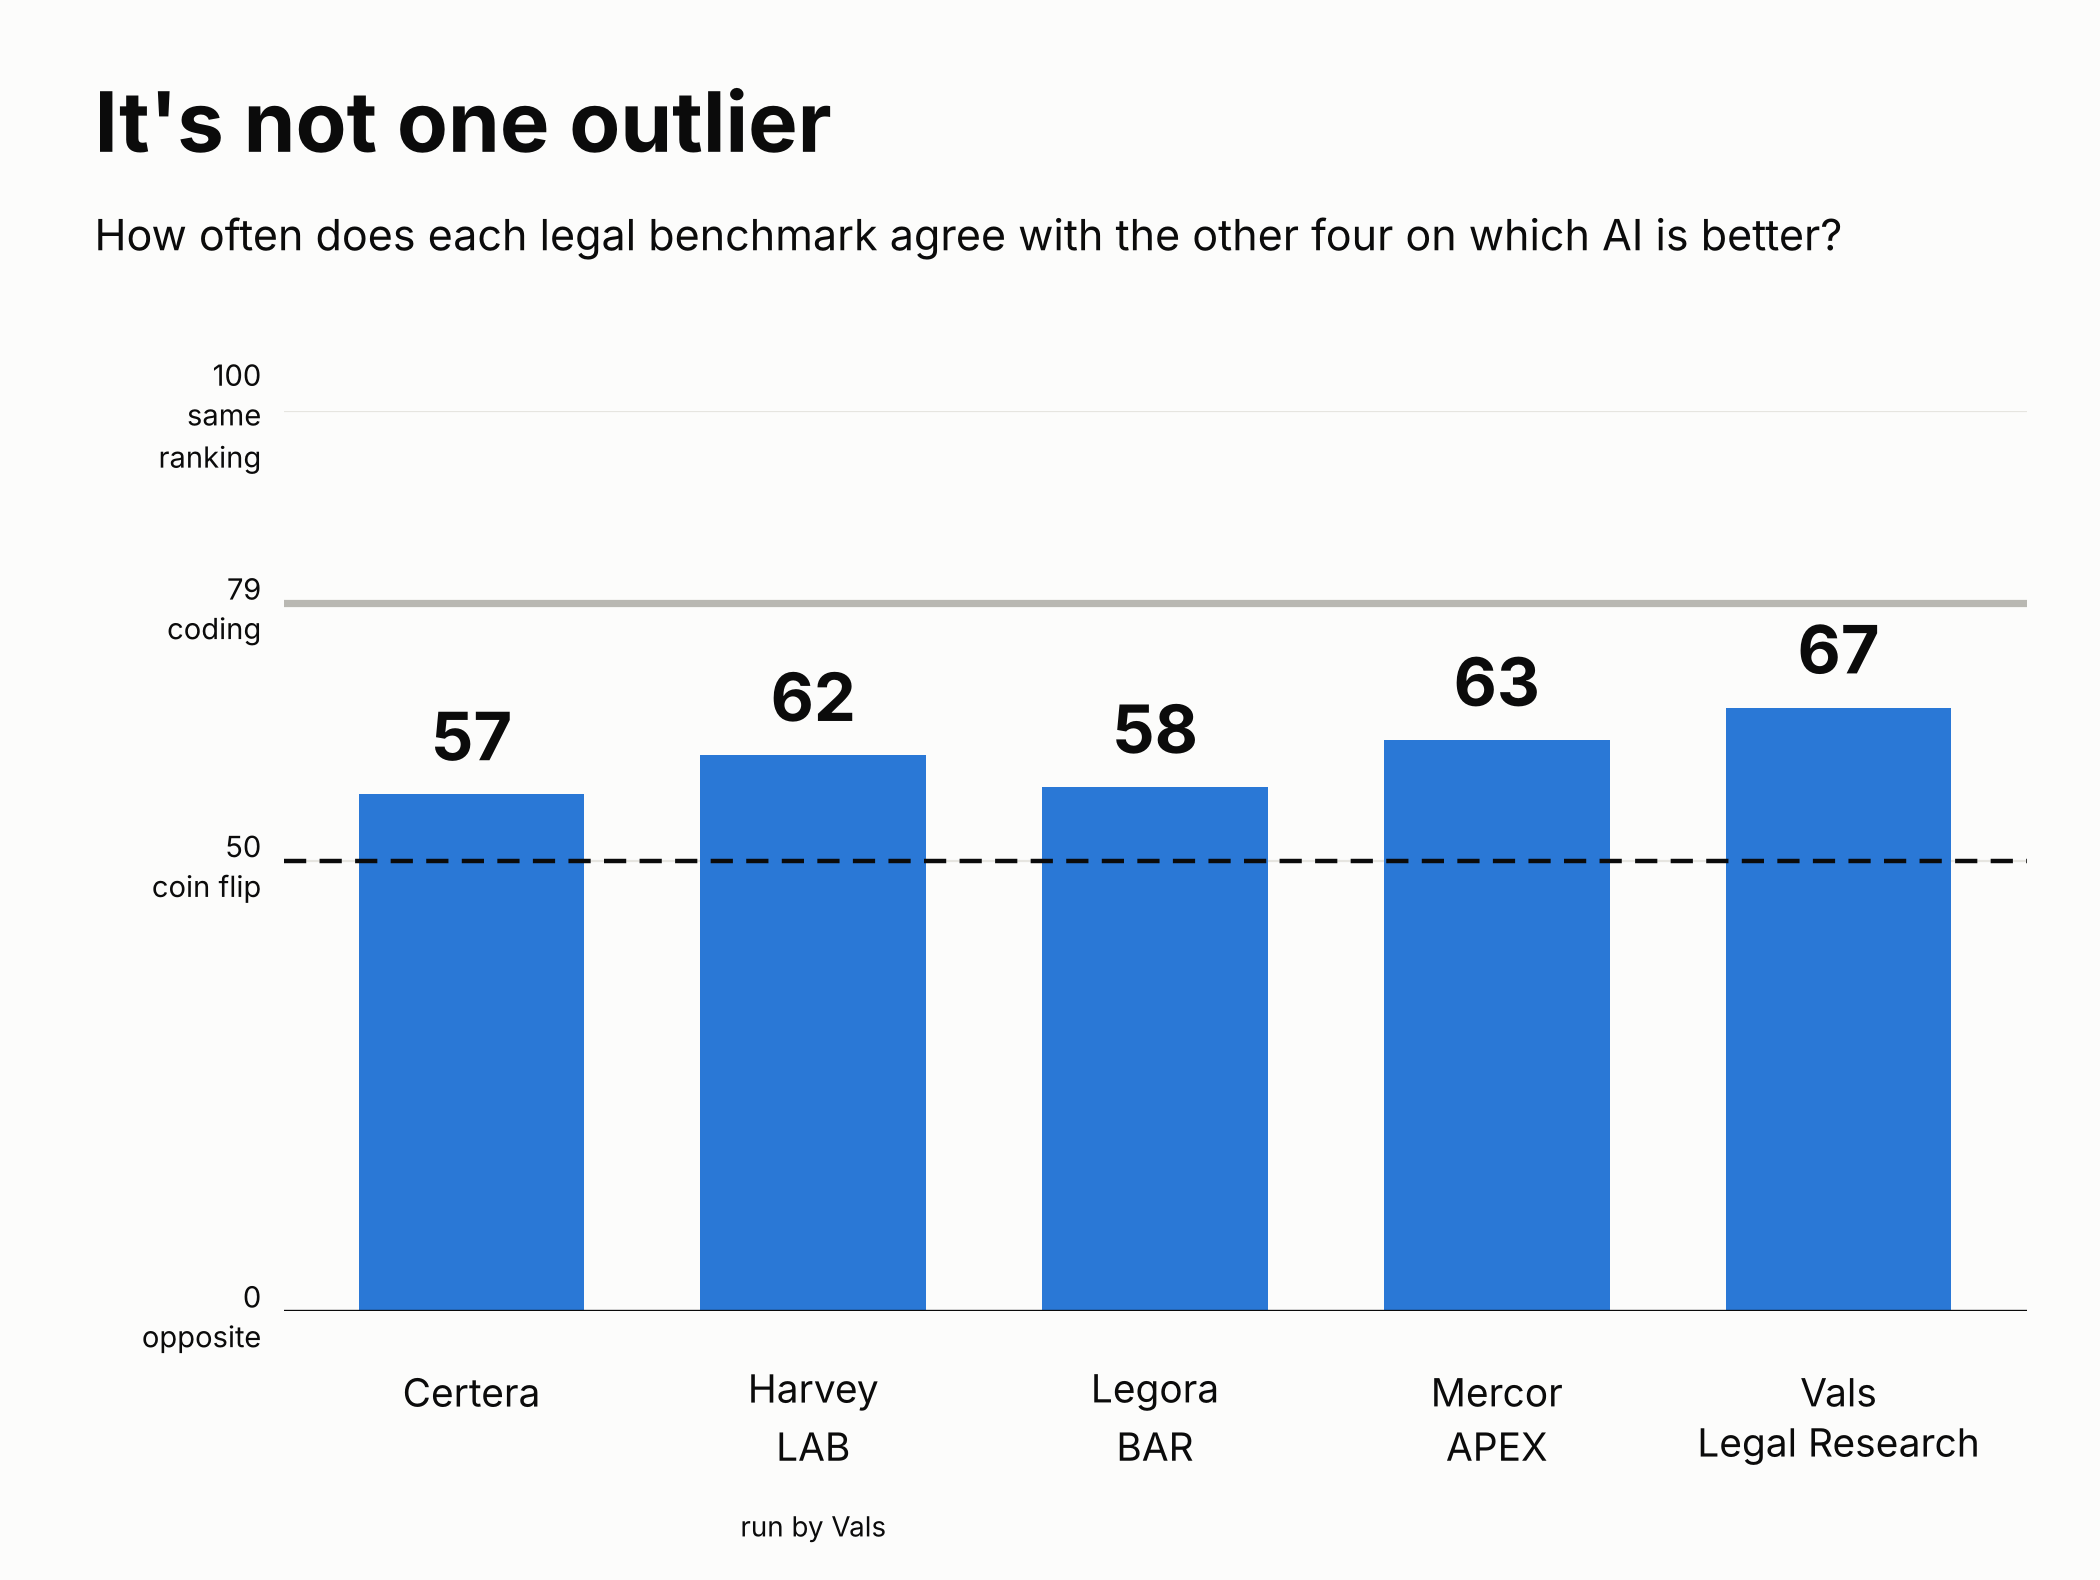
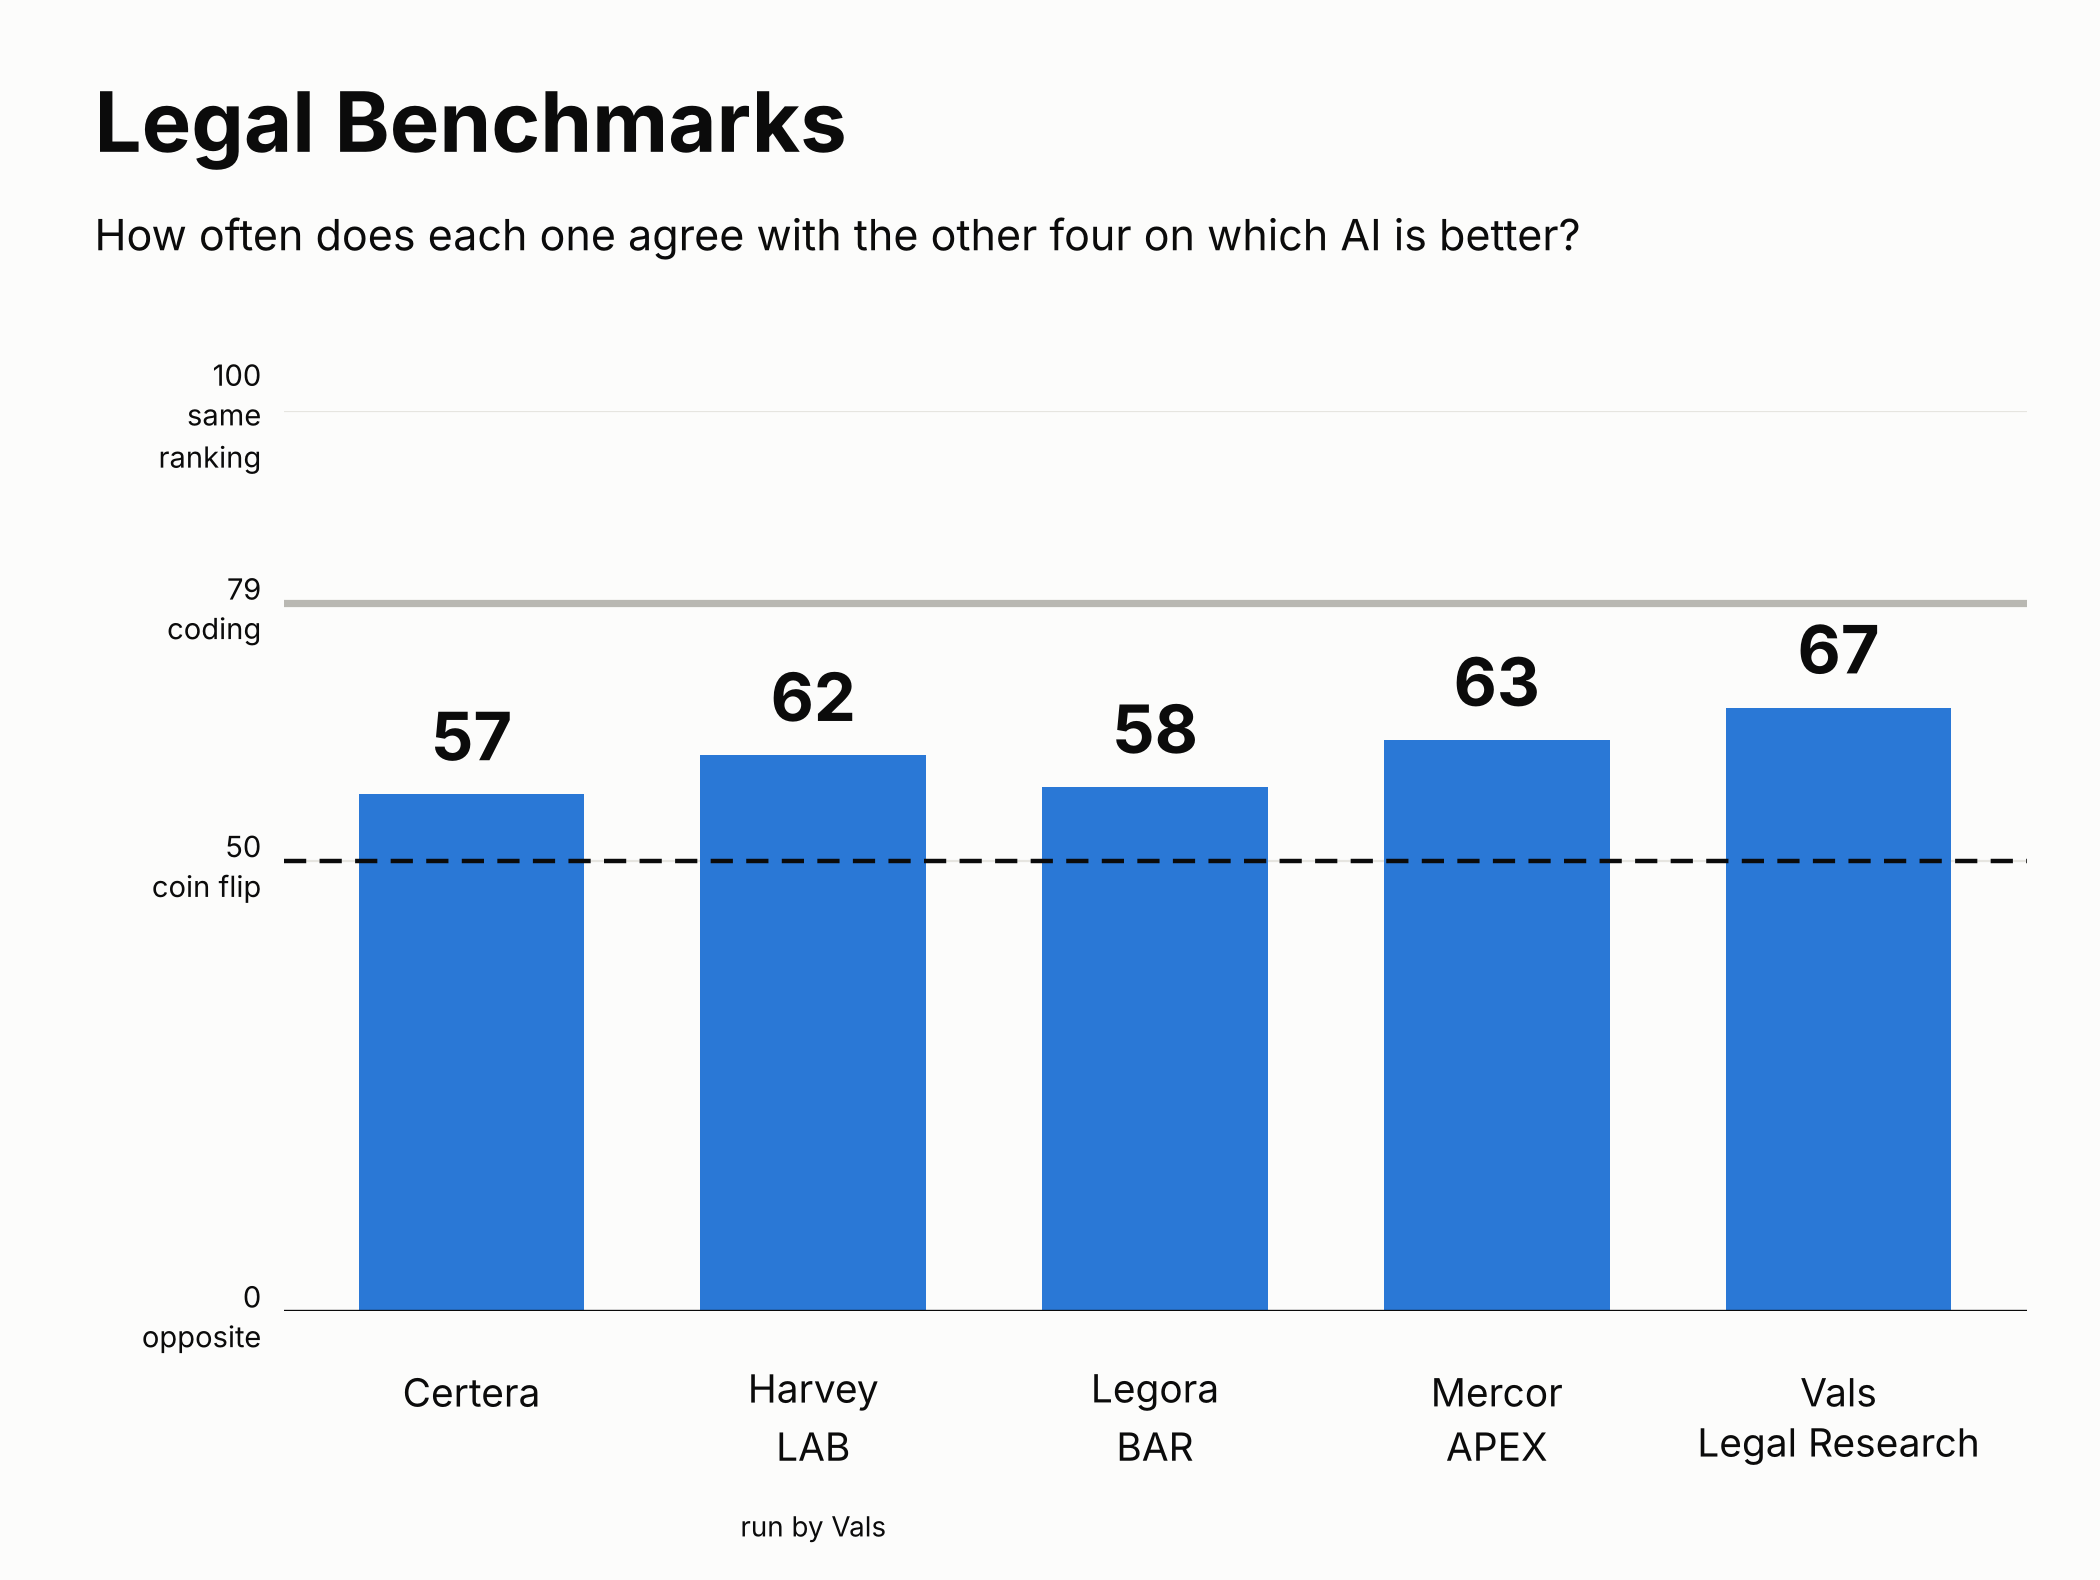
Retitle alternative slide 2 to Legal Benchmarks
Claude-Session: https://claude.ai/code/session_01TmipKRsNqkBmauKHC5vEDZ

Changed region(s): [[0.2476, 0.1241, 0.8667, 0.1861], [0.031, 0.062, 0.4024, 0.1241]]

diff --git a/benchmark-agreement/scripts/slide2_alt.py b/benchmark-agreement/scripts/slide2_alt.py
@@ -18,7 +18,7 @@ ax.yaxis.grid(True,color=GRID,lw=0.8,zorder=0); ax.set_axisbelow(True); ax.axhli
 ax.axhline(50,color=INK,lw=1.6,ls=(0,(5,3)),zorder=5)
 ax.axhline(coding,color=GRAY,lw=2.6,zorder=2)
 fig.text(0.045,0.955,title,fontsize=30,color=INK,fontweight='bold',ha='left',va='top')
-fig.text(0.045,0.868,"How often does each legal benchmark agree with the other four on which AI is better?",fontsize=15.5,color=INK,ha='left',va='top')
+fig.text(0.045,0.868,"How often does each one agree with the other four on which AI is better?",fontsize=15.5,color=INK,ha='left',va='top')
 for x,(k,v) in enumerate(legal):
     ax.bar(x,v*100,width=0.66,color=BLUE,zorder=3,linewidth=0)
     ax.text(x,v*100+2,f"{v*100:.0f}",ha='center',va='bottom',fontsize=24,color=INK,fontweight='bold',zorder=6)
